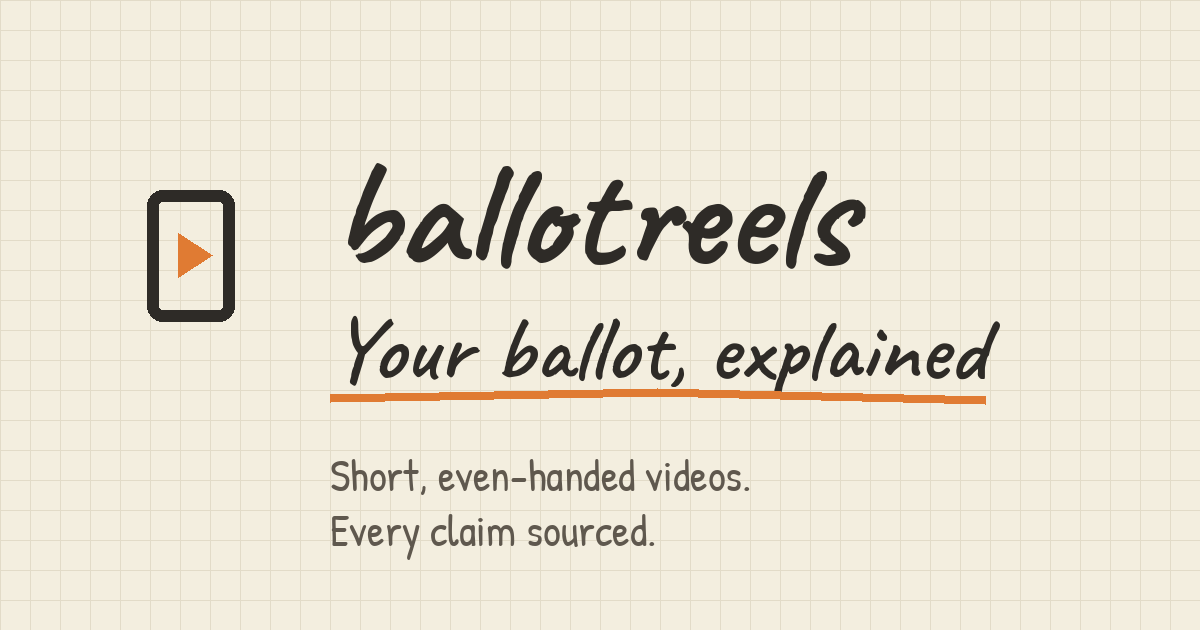
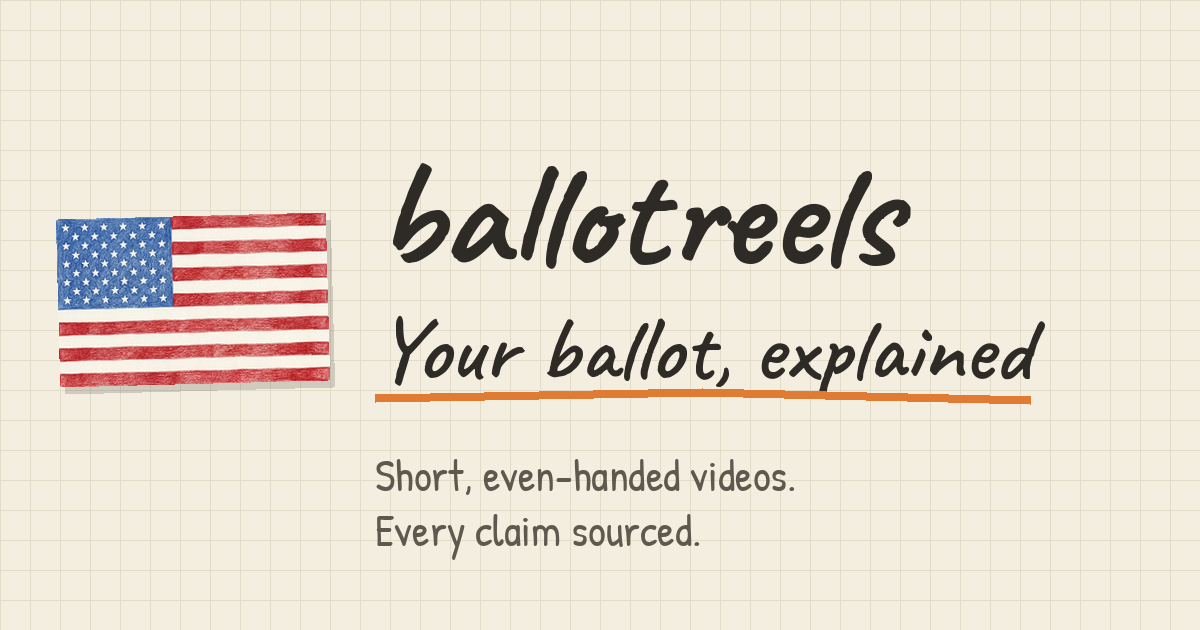
Put the home hero's flag on the site-wide link-preview card
The card showed the header's phone-and-play mark; it now shows the US flag as the home page draws it, tilted with its shadow, so a shared home link looks like the page it opens.

diff --git a/scripts/og_card.py b/scripts/og_card.py
@@ -1,5 +1,6 @@
 """Draws the site-wide link-preview card (ballotreels/site/static/
-og-card.png, 1200x630): the site's graph paper, brand mark and fonts.
+og-card.png, 1200x630): the site's graph paper, the home hero's flag and
+the fonts.
 Run it again only to change the card:
 
     python scripts/og_card.py
@@ -36,15 +37,20 @@ def main():
     for y in range(0, H, 30):
         d.line([(0, y), (W, y)], fill=GRID, width=1)
 
-    # The header's brand mark, scaled up: a phone with a play triangle.
-    s = 6.2
-    ox, oy = 110, 175
-    d.rounded_rectangle([ox + 6 * s, oy + 2.5 * s, ox + 20 * s, oy + 23.5 * s],
-                        radius=2.5 * s, outline=INK, width=12)
-    d.polygon([(ox + 11 * s, oy + 9.5 * s), (ox + 16.5 * s, oy + 13 * s),
-               (ox + 11 * s, oy + 16.5 * s)], fill=ACCENT)
+    # The home hero's flag, as style.css's .home-flag draws it: tilted
+    # 1.5deg, with a soft offset shadow.
+    flag = Image.open(STATIC / "flags" / "us.jpg").convert("RGBA")
+    fw = 270
+    flag = flag.resize((fw, round(flag.height * fw / flag.width)),
+                       Image.LANCZOS)
+    shade = Image.new("RGBA", flag.size, INK + (46,))
+    flag = flag.rotate(1.5, resample=Image.BICUBIC, expand=True)
+    shade = shade.rotate(1.5, resample=Image.BICUBIC, expand=True)
+    fx, fy = 55, 300 - flag.height // 2
+    img.paste(shade, (fx + 5, fy + 7), shade)
+    img.paste(flag, (fx, fy), flag)
 
-    left = 330
+    left = 375
     d.text((left, 120), "ballotreels", font=font("Caveat-Variable.ttf", 150, 700),
            fill=INK)
     tagline = "Your ballot, explained"
